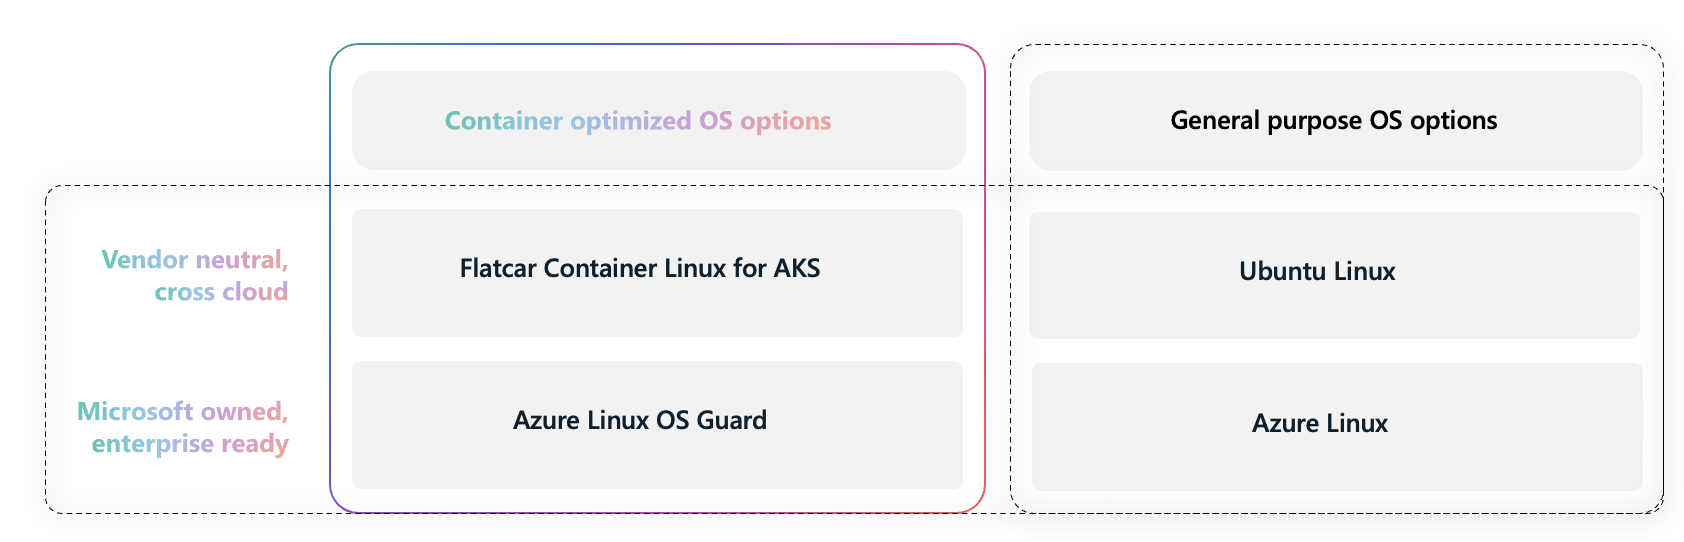
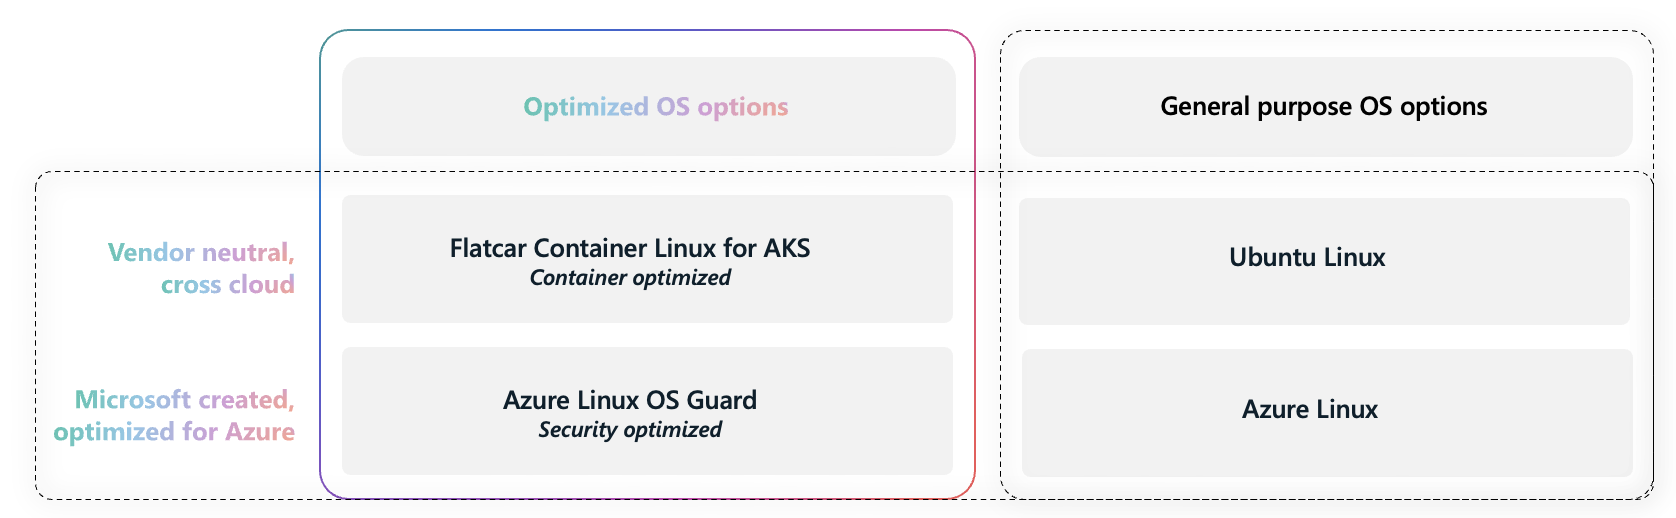
Update OS comparison image with descriptive caption for clarity

diff --git a/articles/aks/concepts-security.md b/articles/aks/concepts-security.md
@@ -77,7 +77,7 @@ When deciding between which container-optimized OS options to use, AKS recommend
 - Use [Ubuntu](https://aka.ms/aks/supported-ubuntu-versions) if you're looking for a vendor neutral, general purpose OS with cross-cloud support.
 - Use [Azure Linux](https://aka.ms/aks/use-azure-linux) if you're looking for an enterprise-ready, general purpose OS, recommended by Microsoft.
 
-![OS Comparison](media/concepts-security/os-comparison.png)
+![OS Comparison](media/concepts-security/os-comparison.png) Screenshot of a table that compares optimized OS options like Flatcar Container Linux for AKS and Azure Linux OS Guard to general purpose OS options like Ubuntu and Azure Linux.
 
 ### Node authorization
 
